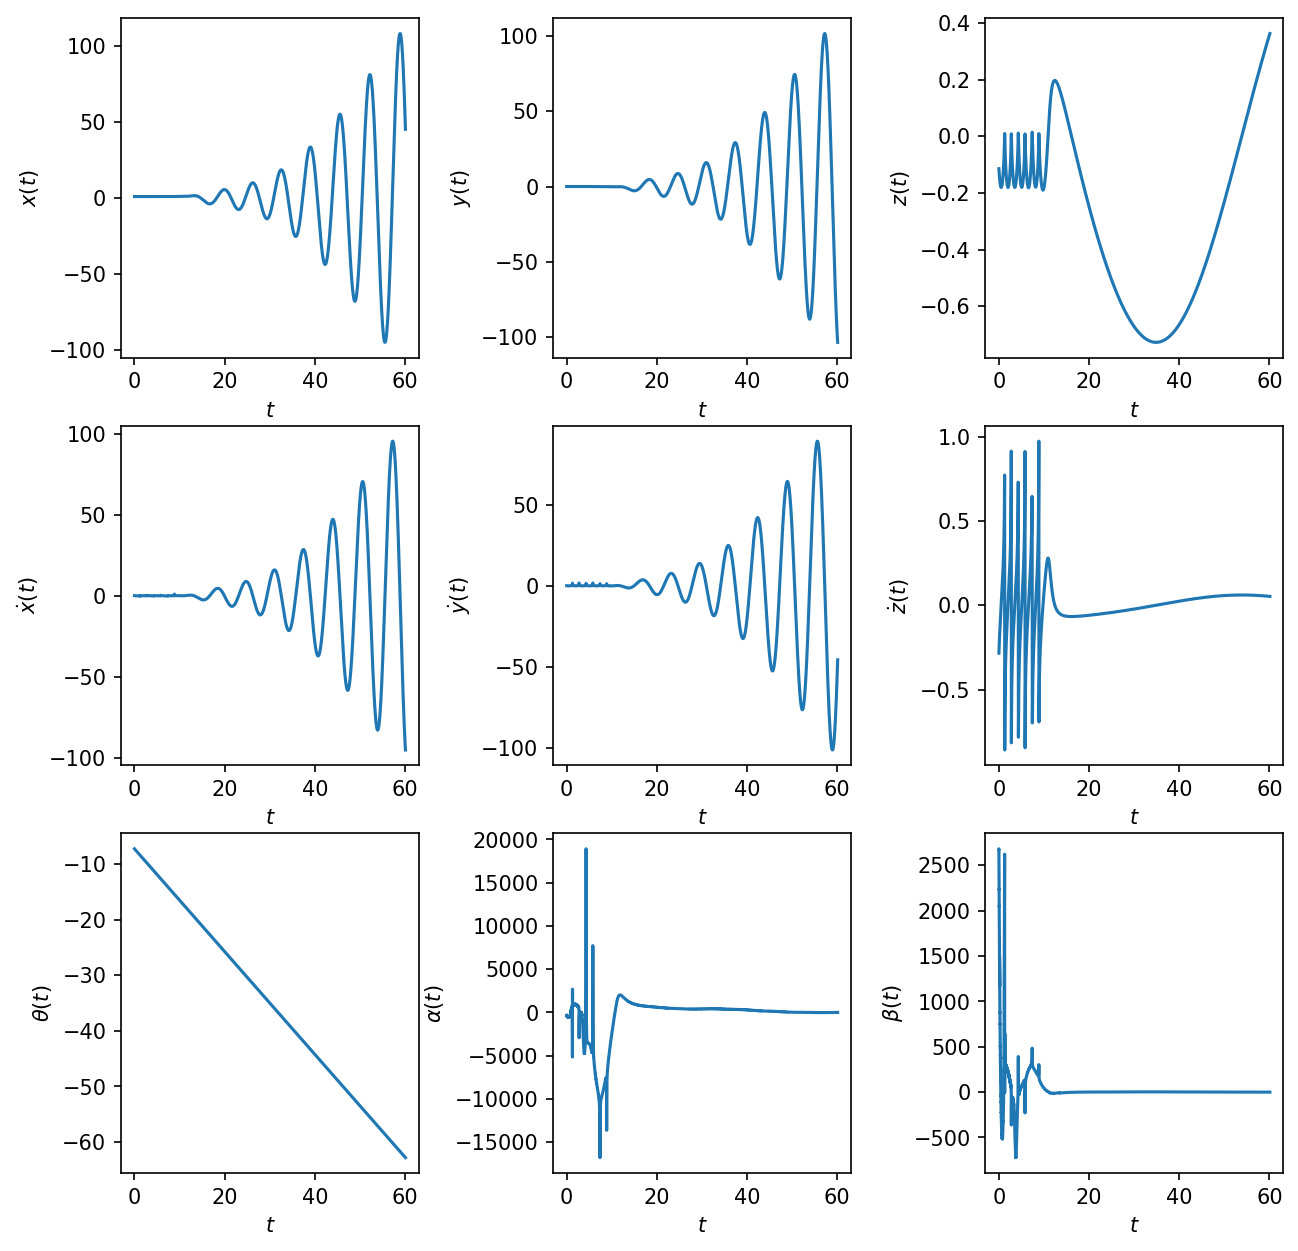
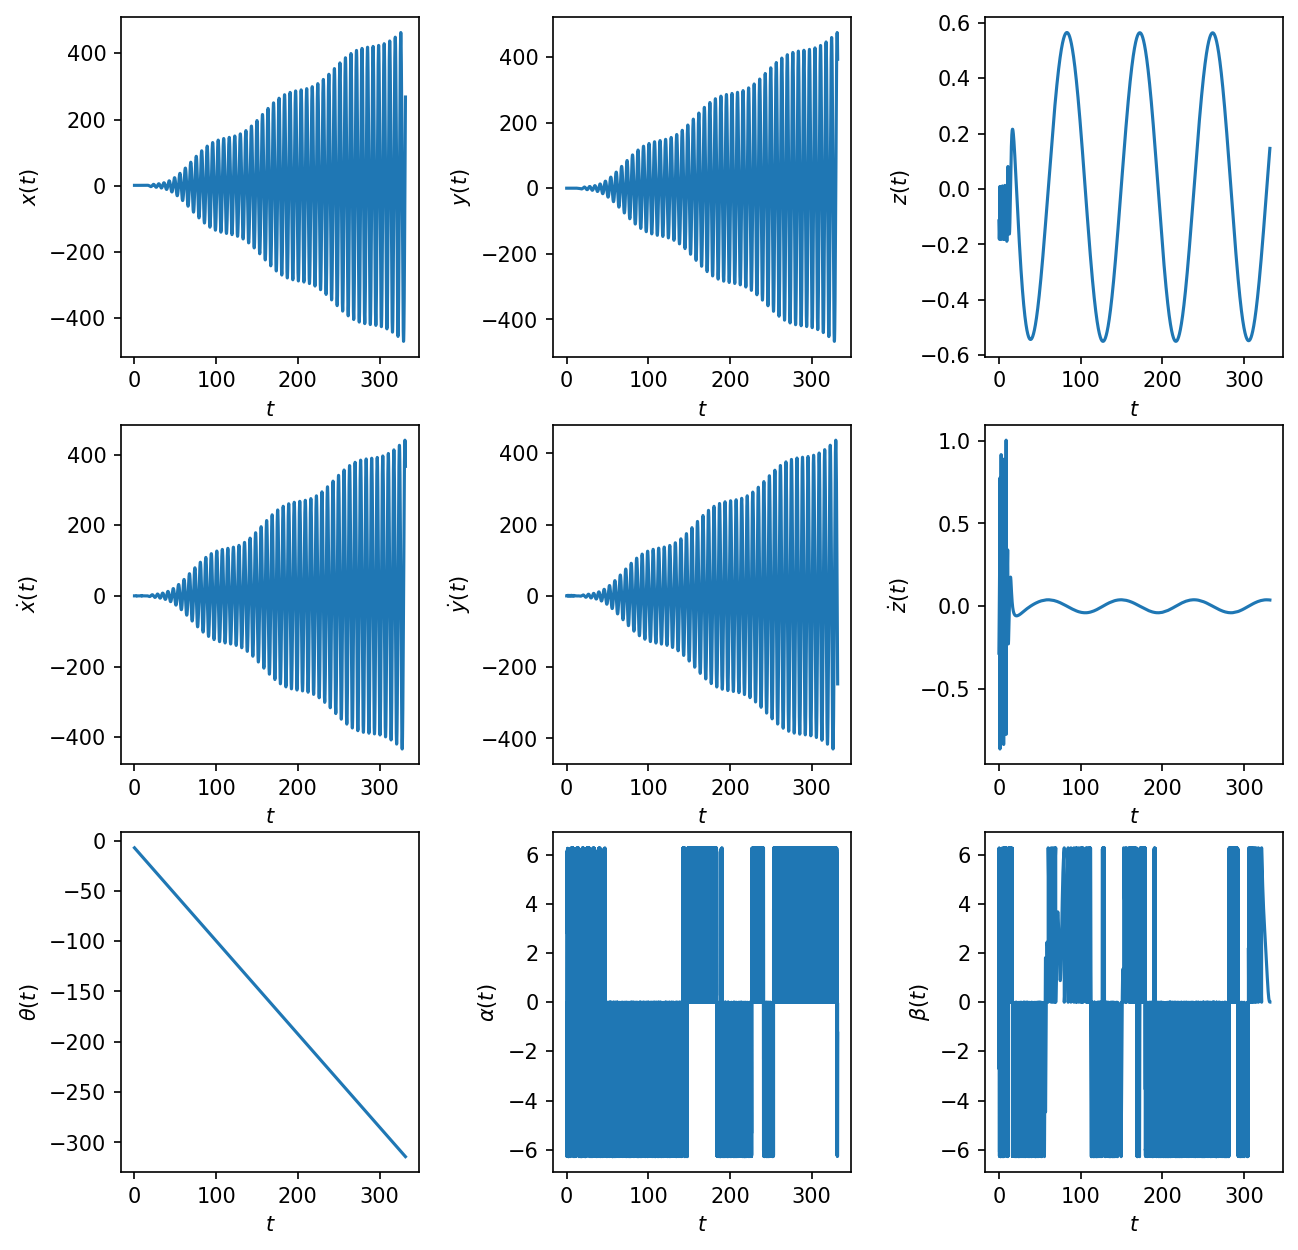
Added intermediate transformation from RTN to SCI

diff --git a/project/solarsail.py b/project/solarsail.py
@@ -176,10 +176,10 @@ def ilqr(f, s0, s_goal, N, Q, R, QN, eps=1e-3, max_iters=100):
         for k in range(N):
             # deviation variables
             ds[k] = s[k] - s_bar[k] 
-            du[k] = jnp.mod( y[k] + Y[k] @ ds[k], 2*np.pi * np.sign(y[k] + Y[k] @ ds[k]) ) 
+            du[k] = y[k] + Y[k] @ ds[k] # jnp.mod( y[k] + Y[k] @ ds[k], 2*np.pi * np.sign(y[k] + Y[k] @ ds[k]) ) 
             
             # new state and control history with discretized dynamics
-            u[k] = jnp.mod( u_bar[k] + du[k], 2*np.pi * np.sign(u_bar[k] + du[k]) )
+            u[k] = u_bar[k] + du[k] # jnp.mod( u_bar[k] + du[k], 2*np.pi * np.sign(u_bar[k] + du[k]) )
             s[k + 1] = f(s[k], u[k])
             
             
@@ -189,10 +189,37 @@ def ilqr(f, s0, s_goal, N, Q, R, QN, eps=1e-3, max_iters=100):
         # ds = s - s_bar
         print(np.max(np.abs(du)))
 
-        # raise NotImplementedError()
+
+        # # Homework 2 Solution
+        # # Backward pass
+        # P = QN
+        # p = QN @ (s_bar[-1] - s_goal)
+        # for k in range(N-1, -1, -1):
+        #     q = Q @ (s_bar[k] - s_goal)
+        #     r = R @ u_bar[k]
+        #     Hss = Q + A[k].T @ P @ A[k]
+        #     Huu = R + B[k].T @ P @ B[k]
+        #     Hsu = A[k].T @ P @ B[k]
+        #     hs = q + A[k].T @ p
+        #     hu = r + B[k].T @ p
+        #     Y[k] = -np.linalg.solve(Huu, Hsu.T)
+        #     y[k] = -np.linalg.solve(Huu, hu)
+        #     # P = Hss - Y[k].T @ Huu @ Y[k]
+        #     # p = hs - Y[k].T @ Huu @ y[k]
+        #     P = Hss + Hsu @ Y[k]
+        #     p = hs + Hsu @ y[k]
+
+        # # Forward pass
+        # for k in range(N):
+        #     du[k] = y[k] + Y[k] @ ds[k]
+        #     ds[k+1] = f(s_bar[k] + ds[k], u_bar[k] + du[k]) - s_bar[k+1]
+        #     s_bar += ds
+        #     u_bar += du
+
+
         #######################################################################
 
-        # print(np.max(np.abs(du)))
+        print(np.max(np.abs(du)))
 
         if np.max(np.abs(du)) < eps:
             converged = True
@@ -202,39 +229,18 @@ def ilqr(f, s0, s_goal, N, Q, R, QN, eps=1e-3, max_iters=100):
     return s_bar, u_bar, Y, y
 
 
-def cartpole(s, u):
-    """Compute the cart-pole state derivative."""
-    mp = 2.0  # pendulum mass
-    mc = 10.0  # cart mass
-    L = 1.0  # pendulum length
-    g = 9.81  # gravitational acceleration
-
-    x, θ, dx, dθ = s
-    sinθ, cosθ = jnp.sin(θ), jnp.cos(θ)
-    h = mc + mp * (sinθ**2)
-    ds = jnp.array(
-        [
-            dx,
-            dθ,
-            (mp * sinθ * (L * (dθ**2) + g * cosθ) + u[0]) / h,
-            -((mc + mp) * g * sinθ + mp * L * (dθ**2) * sinθ * cosθ + u[0] * cosθ)
-            / (h * L),
-        ]
-    )
-    return ds
-
-
 
 # Define constants
 n = 7  # state dimension
 m = 2  # control dimension
-Q = np.diag(np.array([10.0, 10.0, 10.0, 1.0, 1.0, 1.0, 1.0]))  # state cost matrix
+Q = np.diag(np.array([10.0, 10.0, 10.0, 0.0, 0.0, 0.0, 0.0]))  # state cost matrix
 R = 1e-2 * np.eye(m)  # control cost matrix
 QN = 1e2 * np.eye(n)  # terminal state cost matrix
 s0 = np.array([1.016199666777148,   0.043953600688565,  -0.114729547537933,   0.070089213834930,  -0.029738753389694,  -0.284151852739576,  -7.205475689979612])  # initial state
-s_goal = np.array([a3, 0.0, 0.0, 0.0, a3*(n3-1), 0.0, -20*np.pi])  # goal state
+s_goal = np.array([a3, 0.0, 0.0, 0.0, a3*(n3-1), 0.0, -100*np.pi])  # goal state
 T = (s_goal[-1] - s0[-1])/(n3-1)  # simulation time
-dt = 0.1  # sampling time
+print(T)
+dt = 0.001  # sampling time
 # animate = True  # flag for animation
 closed_loop = True  # flag for closed-loop control
 

diff --git a/project/helper.py b/project/helper.py
@@ -70,7 +70,7 @@ TU2 = jnp.sqrt(LU2**3/(mu_E + mu_M + mu_S)) # seconds
 def BCR4BP_SRP(s,u):
     """Compute the state derivative in the BCR4BP with solar radiation pressure (SRP)."""
     # spacecraft sail model (single plate)
-    m = 39000 # kg
+    m = 390 # kg
     A = 345 # m^2
     R_diff = 0.5 
     R_spec = 0.5
@@ -94,17 +94,25 @@ def BCR4BP_SRP(s,u):
     α, β = u
     sinπα, cosπα, sinβ, cosβ = jnp.sin(np.pi+α), jnp.cos(np.pi+α), jnp.sin(β), jnp.cos(β)
 
-    # flat plate unit normal vector in SCI frame
-    n_SCI = jnp.array([cosπα*cosβ, sinπα*cosβ, sinβ])
+    # flat plate unit normal vector in RTN frame
+    n_RTN = jnp.array([cosπα*cosβ, sinπα*cosβ, sinβ])
+
+    # convert from RTN frame to SCI frame
+    n_SCI = RTNtoSCI(R_SCI,T_SCI,N_SCI) @ n_RTN
+
+    # include back side of plate
+    n_back = -1*jnp.copy(n_SCI)
 
     # cosine of angle between r_s and n_B
     cosθ = jnp.dot(-R_SCI/jnp.linalg.norm(R_SCI), n_SCI)
+    cosθ_b = jnp.dot(-R_SCI/jnp.linalg.norm(R_SCI), n_back)
 
     # solar radiation pressure [N/m^2]
     P = SRP(jnp.linalg.norm(R_SCI))
 
     # SRP force vector in SCI frame [N]
-    F_SCI = -P * A * (2*(R_diff/3 + R_spec*cosθ)*n_SCI + (1-R_spec)*-R_SCI/jnp.linalg.norm(R_SCI)) * jnp.max(jnp.array([cosθ,0]))
+    F_SCI = -P * A * (2*(R_diff/3 + R_spec*cosθ)*n_SCI + (1-R_spec)*-R_SCI/jnp.linalg.norm(R_SCI)) * jnp.max(jnp.array([cosθ,0])) \
+            -P * A * (2*(R_diff/3 + R_spec*cosθ_b)*n_back + (1-R_spec)*-R_SCI/jnp.linalg.norm(R_SCI)) * jnp.max(jnp.array([cosθ_b,0]))
 
     # acceleration due to SRP in SCI frame [m/s^2]
     a_SCI = F_SCI/m
@@ -351,3 +359,18 @@ def BCP2toBCP1(t2,a2):
     a1 = C.T @ a2
 
     return t1, a1
+
+def RTNtoSCI(R_SCI,T_SCI,N_SCI):
+    # RTN vectors defined in SCI frame
+
+    # normalize the vectors
+    R_hat = R_SCI/jnp.linalg.norm(R_SCI)
+    T_hat = T_SCI/jnp.linalg.norm(T_SCI)
+    N_hat = N_SCI/jnp.linalg.norm(N_SCI)
+
+    # assemble rotation matrix
+    R = jnp.array([[R_hat[0], T_hat[0], N_hat[0]],
+        [R_hat[1], T_hat[1], N_hat[1]],
+        [R_hat[2], T_hat[2], N_hat[2]]])
+    
+    return R

diff --git a/project/solarsail_SCP.py b/project/solarsail_SCP.py
@@ -204,28 +204,6 @@ def scp_iteration(f, s0, s_goal, s_prev, u_prev, N, P, Q, R, u_max, ρ):
     return s, u, J
 
 
-def cartpole(s, u):
-    """Compute the cart-pole state derivative."""
-    mp = 1.0  # pendulum mass
-    mc = 4.0  # cart mass
-    L = 1.0  # pendulum length
-    g = 9.81  # gravitational acceleration
-
-    x, θ, dx, dθ = s
-    sinθ, cosθ = jnp.sin(θ), jnp.cos(θ)
-    h = mc + mp * (sinθ**2)
-    ds = jnp.array(
-        [
-            dx,
-            dθ,
-            (mp * sinθ * (L * (dθ**2) + g * cosθ) + u[0]) / h,
-            -((mc + mp) * g * sinθ + mp * L * (dθ**2) * sinθ * cosθ + u[0] * cosθ)
-            / (h * L),
-        ]
-    )
-    return ds
-
-
 def discretize(f, dt):
     """Discretize continuous-time dynamics `f` via Runge-Kutta integration."""
 
@@ -237,7 +215,6 @@ def discretize(f, dt):
         return s + (k1 + 2 * k2 + 2 * k3 + k4) / 6
 
     return integrator
-
 
 
 # Define constants
